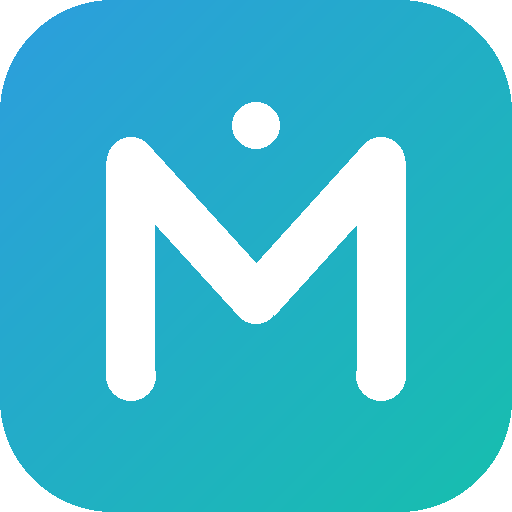
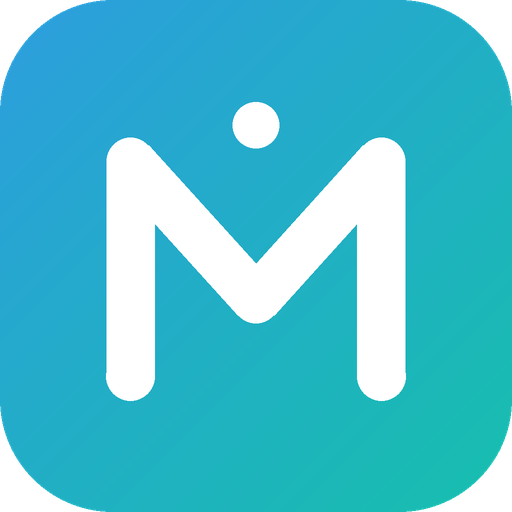
Add tools/make_branding_from_mark.py: rebuild branding from a hand-drawn mark

diff --git a/tools/make_branding_from_mark.py b/tools/make_branding_from_mark.py
@@ -1,0 +1,101 @@
+#!/usr/bin/env python3
+# SPDX-License-Identifier: GPL-3.0-or-later
+"""Rebuild every MagmaRita branding PNG from your own hand-drawn mark.
+
+1. Draw the mark in Krita on a SQUARE canvas (2048x2048 recommended), with a
+   transparent background, and export it as:
+        assets/branding/source/mark.png
+2. Run:
+        python tools/make_branding_from_mark.py
+
+Regenerates: all icon sizes, the horizontal logo, the wordmark, the itch.io
+cover (630x250) and the GitHub social preview (1280x640).
+"""
+
+import os
+
+from PIL import Image, ImageDraw, ImageFont
+
+ROOT = os.path.dirname(os.path.dirname(os.path.abspath(__file__)))
+OUT = os.path.join(ROOT, "assets", "branding")
+SRC = os.path.join(OUT, "source", "mark.png")
+
+BLUE_TXT = (30, 145, 205)
+TEAL_TXT = (20, 170, 155)
+INK = (58, 74, 90)
+WHITE = (255, 255, 255)
+FB = r"C:\Windows\Fonts\segoeuib.ttf"
+FR = r"C:\Windows\Fonts\segoeui.ttf"
+FL = r"C:\Windows\Fonts\segoeuil.ttf"
+ICON_SIZES = (1024, 512, 256, 128, 64, 48, 32)
+
+
+def load_mark():
+    if os.path.exists(SRC):
+        print("using", SRC)
+        return Image.open(SRC).convert("RGBA")
+    fallback = os.path.join(OUT, "magmarita-icon-1024.png")
+    print("! %s not found - using %s as placeholder" % (SRC, fallback))
+    return Image.open(fallback).convert("RGBA")
+
+
+def scaled(mark, size):
+    return mark.resize((size, size), Image.LANCZOS)
+
+
+def main():
+    mark = load_mark()
+    if not os.path.isdir(OUT):
+        os.makedirs(OUT)
+
+    for size in ICON_SIZES:
+        scaled(mark, size).save(os.path.join(OUT, "magmarita-icon-%d.png" % size))
+    scaled(mark, 512).save(os.path.join(OUT, "magmarita-icon.png"))
+
+    def wordmark(width, tagline=True):
+        ic = int(width * 0.20)
+        icon = scaled(mark, ic)
+        f1 = ImageFont.truetype(FB, int(width * 0.115))
+        f2 = ImageFont.truetype(FL, int(width * 0.045))
+        tmp = ImageDraw.Draw(Image.new("RGBA", (10, 10)))
+        w1 = tmp.textlength("Magma", font=f1)
+        height = ic + int(width * 0.03)
+        img = Image.new("RGBA", (width, height), (0, 0, 0, 0))
+        img.paste(icon, (int(width * 0.03), (height - ic) // 2), icon)
+        x = int(width * 0.03) + ic + int(width * 0.03)
+        y = (height - int(width * 0.115)) // 2 - (int(width * 0.03) if tagline else 0)
+        d = ImageDraw.Draw(img)
+        d.text((x, y), "Magma", font=f1, fill=BLUE_TXT + (255,))
+        d.text((x + w1, y), "Rita", font=f1, fill=TEAL_TXT + (255,))
+        if tagline:
+            d.text((x + int(width * 0.004), y + int(width * 0.125)),
+                   "Magma-style keybinds for Krita", font=f2, fill=INK + (255,))
+        return img
+
+    wordmark(1200).save(os.path.join(OUT, "magmarita-logo-horizontal.png"))
+    wordmark(1200, tagline=False).save(os.path.join(OUT, "magmarita-wordmark.png"))
+
+    cover = Image.new("RGBA", (630, 250), WHITE + (255,))
+    it = scaled(mark, 150)
+    cover.paste(it, (34, 50), it)
+    d = ImageDraw.Draw(cover)
+    d.text((210, 74), "MagmaRita", font=ImageFont.truetype(FB, 52), fill=BLUE_TXT + (255,))
+    d.text((212, 134), "Magma-style keybinds", font=ImageFont.truetype(FB, 22), fill=TEAL_TXT + (255,))
+    d.text((212, 162), "for Krita", font=ImageFont.truetype(FR, 22), fill=INK + (255,))
+    cover.save(os.path.join(OUT, "itch-cover-630x250.png"))
+
+    social = Image.new("RGBA", (1280, 640), WHITE + (255,))
+    sb = scaled(mark, 340)
+    social.paste(sb, (110, 150), sb)
+    d = ImageDraw.Draw(social)
+    d.text((520, 205), "MagmaRita", font=ImageFont.truetype(FB, 104), fill=BLUE_TXT + (255,))
+    d.text((524, 330), "Magma-style keybinds & palette", font=ImageFont.truetype(FB, 38), fill=TEAL_TXT + (255,))
+    d.text((524, 378), "for Krita", font=ImageFont.truetype(FR, 38), fill=INK + (255,))
+    d.text((524, 452), "github.com/runicmelody/magmarita", font=ImageFont.truetype(FL, 30), fill=INK + (200,))
+    social.save(os.path.join(OUT, "github-social-1280x640.png"))
+
+    print("done - rebuilt %d icons + logo + cover + social" % len(ICON_SIZES))
+
+
+if __name__ == "__main__":
+    main()
